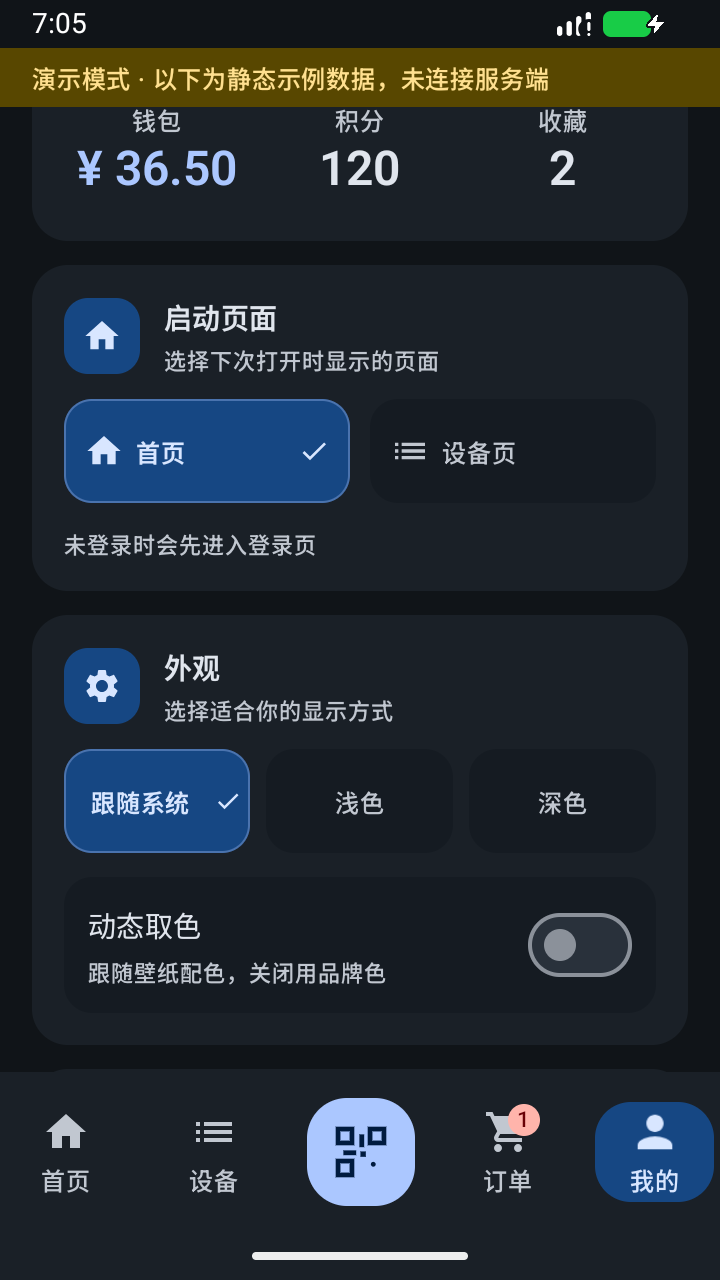
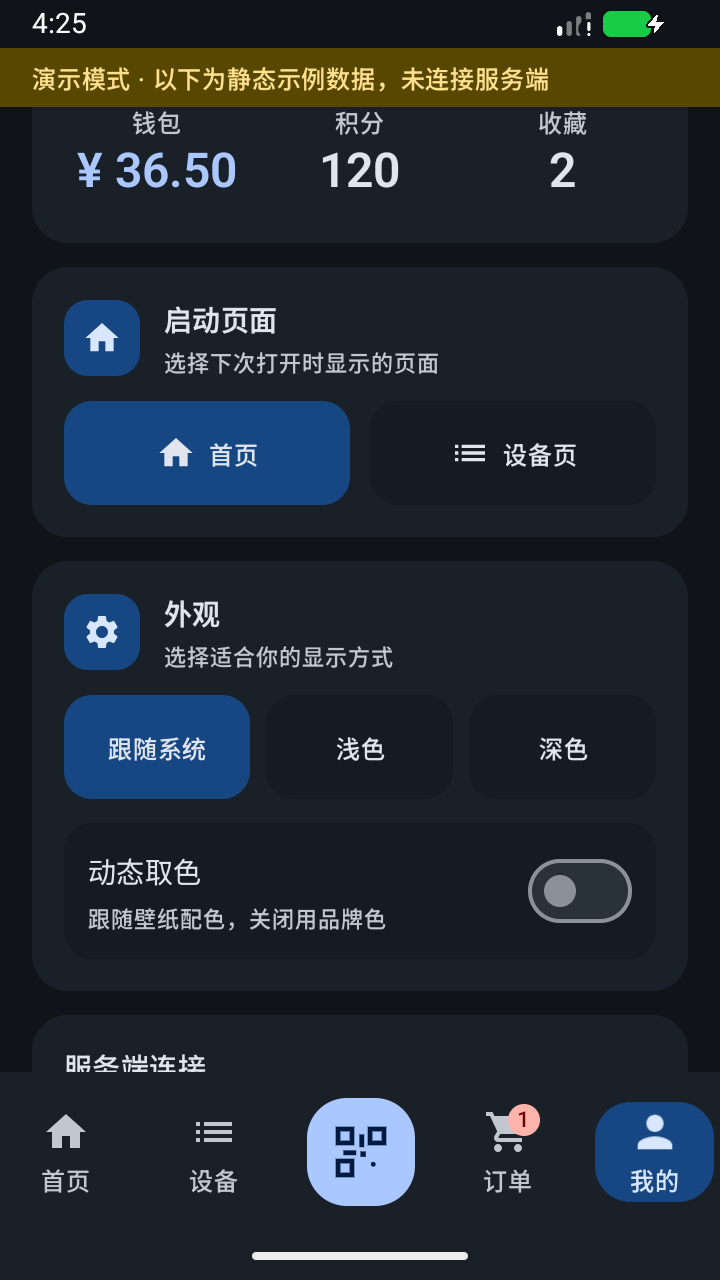
chore(release): 准备 1.9.2 精简设置本地构建

diff --git a/README.md b/README.md
@@ -7,7 +7,7 @@
 | | |
 |---|---|
 | 新客户端包名 | `com.smartlife798.app` |
-| 当前版本 | `1.9.1`（`versionCode 32`） |
+| 当前版本 | `1.9.2`（`versionCode 33`） |
 | 技术栈 | Kotlin 2.2 · Jetpack Compose (Material 3) · OkHttp · CameraX + ML Kit · Alipay / WeChat SDK |
 | 最低版本 | Android 7.0（API 24） |
 | 最新已发布 | [1.8.0 APK](https://github.com/wu-shanglin/Smartlife798/releases/download/v1.8.0/SmartLife798-1.8.0-debug.apk) · [Release 说明](https://github.com/wu-shanglin/Smartlife798/releases/tag/v1.8.0) |
@@ -17,9 +17,9 @@
 
 ---
 
-## v1.9.1 本地构建（设置卡片优化）
+## v1.9.2 本地构建（精简设置展示）
 
-- 「我的」启动页面、外观使用独立圆角卡片；等宽选项仅以背景色表示当前选择，不显示勾选、选中描边或加粗，动态取色放入内嵌色调容器。
+- 「我的」启动页面、外观使用独立圆角卡片；启动页选项的图标与文字整体居中，等宽选项仅以背景色表示当前选择，不显示勾选、选中描边或加粗，动态取色放入内嵌色调容器；启动页面卡片不再显示未登录说明。
 - 「我的 → 启动页面」可选择首页或设备页，默认首页，登出保留；修改后保持当前页面，下次重新启动时生效，未登录先登录。
 - 首页/订单用时只刷新独立文本，非前台暂停；页面状态随生命周期收集，设备关联和排序复用 id 索引，减少重复计算。
 - 设备页区分加载、空列表、同步失败和搜索无匹配，支持重试、清除筛选及一键清空搜索，搜索忽略首尾空格。
@@ -31,7 +31,7 @@
 - 首次启动（无需登录）及返回前台自动检查更新，登录页与「我的」可手动检查；普通更新允许暂缓，强制更新按最低支持版本码限制旧版。新发布附带 CHANGELOG 历史附件，弹窗按版本分段展示当前安装至最新版之间的全部已有日志；旧元数据只展示最新说明并提示历史缺失。
 - 点击更新直接下载 GitHub APK，显示进度；校验哈希、包名、版本和签名后自动打开系统安装界面。Android 需要用户确认，首次可能需要允许安装未知来源应用。
 - [直接下载 APK](https://github.com/wu-shanglin/Smartlife798/releases/download/v1.8.0/SmartLife798-1.8.0-debug.apk) · [GitHub 仓库](https://github.com/wu-shanglin/Smartlife798) · [下载最新版本](https://github.com/wu-shanglin/Smartlife798/releases/latest)；更新发布配置见 [工程规范](docs/06-工程规范与路线图.md#github-更新发布)。
-- 已支持应用内更新的旧版可直接升级；更早未集成更新功能的版本需先手动安装。线上 1.8.0 为普通更新，最低支持版本码沿用 1；1.9.1 尚未发布新策略。已知强制策略离线仍保留；演示模式不检查、不下载、不安装。
+- 已支持应用内更新的旧版可直接升级；更早未集成更新功能的版本需先手动安装。线上 1.8.0 为普通更新，最低支持版本码沿用 1；1.9.2 尚未发布新策略。已知强制策略离线仍保留；演示模式不检查、不下载、不安装。
 
 详情过渡与校园生活图标继续保留：
 
@@ -40,7 +40,7 @@
 - 设备文字随容器统一缩放，移除独立标题层和重复整页淡变；导航刷新移到进场结束后，避免退场列表同时更新。不使用固定延时，保留系统动画倍率与取消等待。
 - 官方协议请求头优先采用原应用分发页最新版本，获取失败使用有效缓存与内置保底；不会下载或安装原 APK。仅版本头变化无需重新安装本客户端，字段或业务变化仍须修复。历史版本门禁、启停及账单验证范围见 [docs/04](docs/04-接口契约与变更检测.md)、[docs/05](docs/05-真实支付与计费实测.md)。
 
-本次在独立、离线、无账号 API 36 模拟器以浅/深色验证两个启动目的地、设置选择、演示不落盘、详情返回、搜索/清除、后台恢复及 Activity 重建，并单独验证设置区的 1.3 倍字体；大字体覆盖范围见 [检查说明](docs/06-工程规范与路线图.md#2-检查与证据)。「我的」钱包不依赖先进入首页。JVM/工具测试、构建及 lint 另行验证。1.8.0 曾验证协议版本发现与跨版本日志，1.7.0 曾走公开下载及系统安装；这些历史证据不代表本次重验。真机帧率、耗电、物理出水、非零计费、真实支付及签约仍各自待验。
+本次在独立、离线、无账号 API 36 模拟器验证浅/深色设置选择、启动偏好、后台恢复、Activity 重建与演示隔离，并人工检查图文居中、仅背景色选中及提示移除。JVM/工具测试、构建及 lint 另行验证；历史回归与大字体覆盖范围见 [检查说明](docs/06-工程规范与路线图.md#2-检查与证据)。真机帧率、耗电、物理出水、非零计费、真实支付及签约仍各自待验。
 
 ## 文档
 
@@ -84,7 +84,7 @@
 
 ## 截图
 
-以下 11 张截图使用独立 API 36 模拟器（720 × 1280）采集：「我的」及深色设置页于 2026-10-24 用 **1.9.1 / versionCode 32 本地构建**同名覆盖；其余保留 **1.8.0 / versionCode 30** 的页面展示。登录页未登录；其余页面使用明确标识的静态演示数据，扫码页仅展示虚拟相机。深色页面跟随系统主题，不代表实体扫码、设备启停或支付已验收。详见 [截图清单](docs/02-功能设计与UI方案.md#7-界面截图)。
+以下 11 张截图使用独立 API 36 模拟器（720 × 1280）采集：「我的」及深色设置页于 2026-10-24 用 **1.9.2 / versionCode 33 本地构建**同名覆盖；其余保留 **1.8.0 / versionCode 30** 的页面展示。登录页未登录；其余页面使用明确标识的静态演示数据，扫码页仅展示虚拟相机。深色页面跟随系统主题，不代表实体扫码、设备启停或支付已验收。详见 [截图清单](docs/02-功能设计与UI方案.md#7-界面截图)。
 
 | 登录 | 首页 | 扫码 |
 |---|---|---|
@@ -96,17 +96,17 @@
 
 | 消费记录 | 待付款筛选与角标 | 我的 |
 |---|---|---|
-| ![1.8.0 消费记录演示](screenshots/orders.png) | ![1.8.0 待付款演示](screenshots/preview_bills.png) | ![1.9.1 我的设置卡片演示](screenshots/me.png) |
+| ![1.8.0 消费记录演示](screenshots/orders.png) | ![1.8.0 待付款演示](screenshots/preview_bills.png) | ![1.9.2 我的设置卡片演示](screenshots/me.png) |
 
 | 深色首页 | 外观（跟随系统深色） |
 |---|---|
-| ![1.8.0 深色首页演示](screenshots/dark.png) | ![1.9.1 深色设置卡片演示](screenshots/appearance_dark.png) |
+| ![1.8.0 深色首页演示](screenshots/dark.png) | ![1.9.2 深色设置卡片演示](screenshots/appearance_dark.png) |
 
 ## 构建与测试
 
 | 本地构建 | 文件 |
 |---|---|
-| 产物 | [`dist/SmartLife798-1.9.1-debug.apk`](dist/SmartLife798-1.9.1-debug.apk) |
+| 产物 | [`dist/SmartLife798-1.9.2-debug.apk`](dist/SmartLife798-1.9.2-debug.apk) |
 
 仓库根目录先运行 `python tools/check-repo.py`、`python -m unittest discover -s tools/tests`、`python tools/check-version.py`。
 

diff --git a/docs/02-功能设计与UI方案.md b/docs/02-功能设计与UI方案.md
@@ -192,7 +192,7 @@ App
 
 - 资料卡（首字母头像、名称、脱敏手机号、用户编号）。
 - 启动页面设置：首页 / 设备页，默认首页；安装级保留，修改不跳页，下一次重新启动主界面生效。启动页面与外观各用独立圆角卡片，标题配主题色图标，保持与设备卡片一致的留白与层级。
-- 选择项使用等宽圆角块，选中时仅改变背景色，不附加勾选、描边或加粗；整块可点击并提供单选语义。启动页面卡片不显示未登录说明，选项文本按宽度换行，动态取色放入外观卡片的独立浅色调区域。演示中启动页、主题和动态取色只改内存，不写安装偏好。
+- 选择项使用等宽圆角块，图标与文字作为整体水平、垂直居中；选中时仅改变背景色，不附加勾选、描边或加粗；整块可点击并提供单选语义。启动页面卡片不显示未登录说明，选项文本按宽度换行，动态取色放入外观卡片的独立浅色调区域。演示中启动页、主题和动态取色只改内存，不写安装偏好。
 - 指标卡：钱包 / 积分 / 收藏数采用三个等宽等高列，列间距 8dp，标签与数值居中；钱包整列保留点击与共享过渡。金额长度不改变三列的宽度分配；数值保持单行，并在 14–24sp 范围内按空间缩放，避免窄屏或大字体将货币符号挤到单独一行；极长数值在最小字号仍放不下时明确显示省略号，钱包详情提供完整余额。「钱包」可点击进入充值页（余额、企业、充值商品，商品由 `prd/lst type=1` 下发）。
 - 服务端连接卡：接口地址、客户端标识、令牌状态、本机最近设备数、**接口连通性自检**（真实调用 `master` 展示结果）、清空本机记录。
 - 关于卡：已实现能力 / 未集成能力（明确列出支付 SDK、门禁、洗衣、驾考）。
@@ -343,7 +343,7 @@ App
 
 ## 7. 界面截图
 
-截图使用独立无账号 API 36 模拟器（720 × 1280、360dp、默认字体）采集。「我的」及深色设置页于 2026-10-24 使用 1.9.1 / versionCode 32 本地构建同名覆盖，其余保留 1.8.0 / versionCode 30 的页面展示。登录页为匿名页面；其余页面均带演示标识，使用静态示例数据。深色由系统驱动，启动页选择仅在演示内存中变化，不写入安装偏好。截图不代表实体扫码、启停、支付、签约或真机性能通过。
+截图使用独立无账号 API 36 模拟器（720 × 1280、360dp、默认字体）采集。「我的」及深色设置页于 2026-10-24 使用 1.9.2 / versionCode 33 本地构建同名覆盖，其余保留 1.8.0 / versionCode 30 的页面展示。登录页为匿名页面；其余页面均带演示标识，使用静态示例数据。深色由系统驱动，启动页选择仅在演示内存中变化，不写入安装偏好。截图不代表实体扫码、启停、支付、签约或真机性能通过。
 
 | 页面 | 文件 | 来源与限制 |
 |---|---|---|
@@ -356,5 +356,5 @@ App
 | 消费记录 | [orders.png](../screenshots/orders.png) | 1.8.0 静态示例账单，无真实账号资料 |
 | 待付款与角标 | [preview_bills.png](../screenshots/preview_bills.png) | 1.8.0 待付款筛选，未发起支付 |
 | 深色 | [dark.png](../screenshots/dark.png) | 1.8.0 跟随系统深色首页演示 |
-| 我的 | [me.png](../screenshots/me.png) | 1.9.1 本地构建，浅色的启动页与外观独立卡片 |
-| 外观 | [appearance_dark.png](../screenshots/appearance_dark.png) | 1.9.1 本地构建，系统深色的启动页与外观独立卡片；动态取色关闭 |
+| 我的 | [me.png](../screenshots/me.png) | 1.9.2 本地构建，浅色的启动页与外观独立卡片 |
+| 外观 | [appearance_dark.png](../screenshots/appearance_dark.png) | 1.9.2 本地构建，系统深色的启动页与外观独立卡片；动态取色关闭 |

diff --git a/CHANGELOG.md b/CHANGELOG.md
@@ -9,8 +9,6 @@
 
 ### 外观与布局
 
-- 移除启动页面卡片的未登录说明；启动页与外观选项只用背景色表示选中状态，去掉勾选、选中描边及加粗，保留整块点击和单选语义。
-
 - 深海蓝主题及我的指标等宽布局随 1.7.6 准备，见下方记录。
 
 ### 新增
@@ -45,6 +43,14 @@
 - 真实支付链路回归（需要一笔 `status=1` 账单）
 - 热水机现场回归、物理出水与非零计费闭环（饮水机版本门禁对比与当前回归范围见 docs/05）
 - R8 压缩 + 基线 Profile
+
+## [1.9.2] - 2026-10-24
+
+### 外观与布局
+
+- 移除启动页面卡片的未登录说明；启动页图标与文字整体居中，启动页与外观选项只用背景色表示选中状态，去掉勾选、选中描边及加粗，保留整块点击和单选语义。
+
+本地构建准备，尚未打 tag 或发布远端 Release。
 
 ## [1.9.1] - 2026-10-24
 
